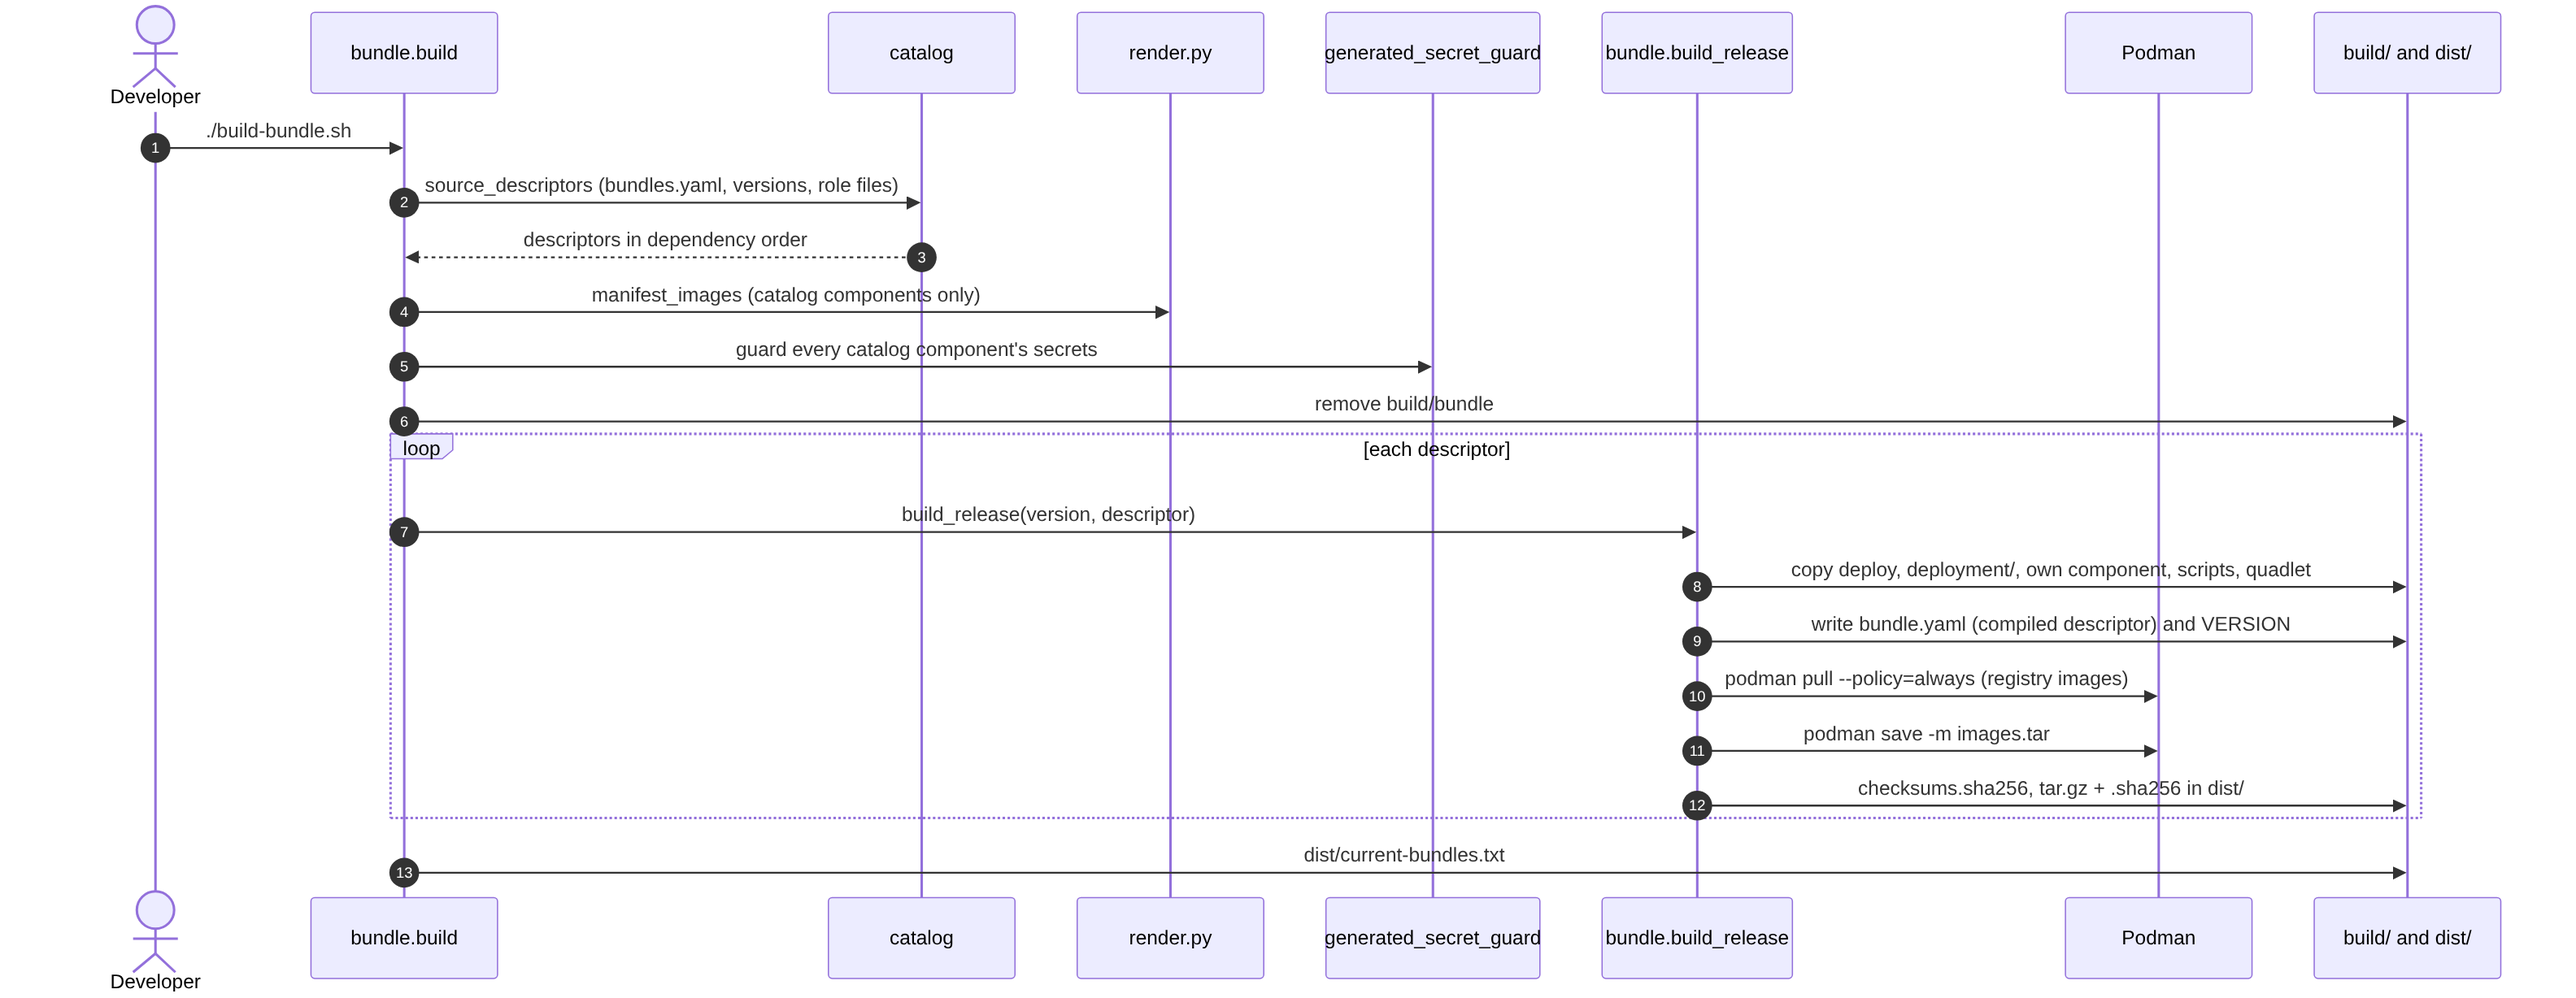
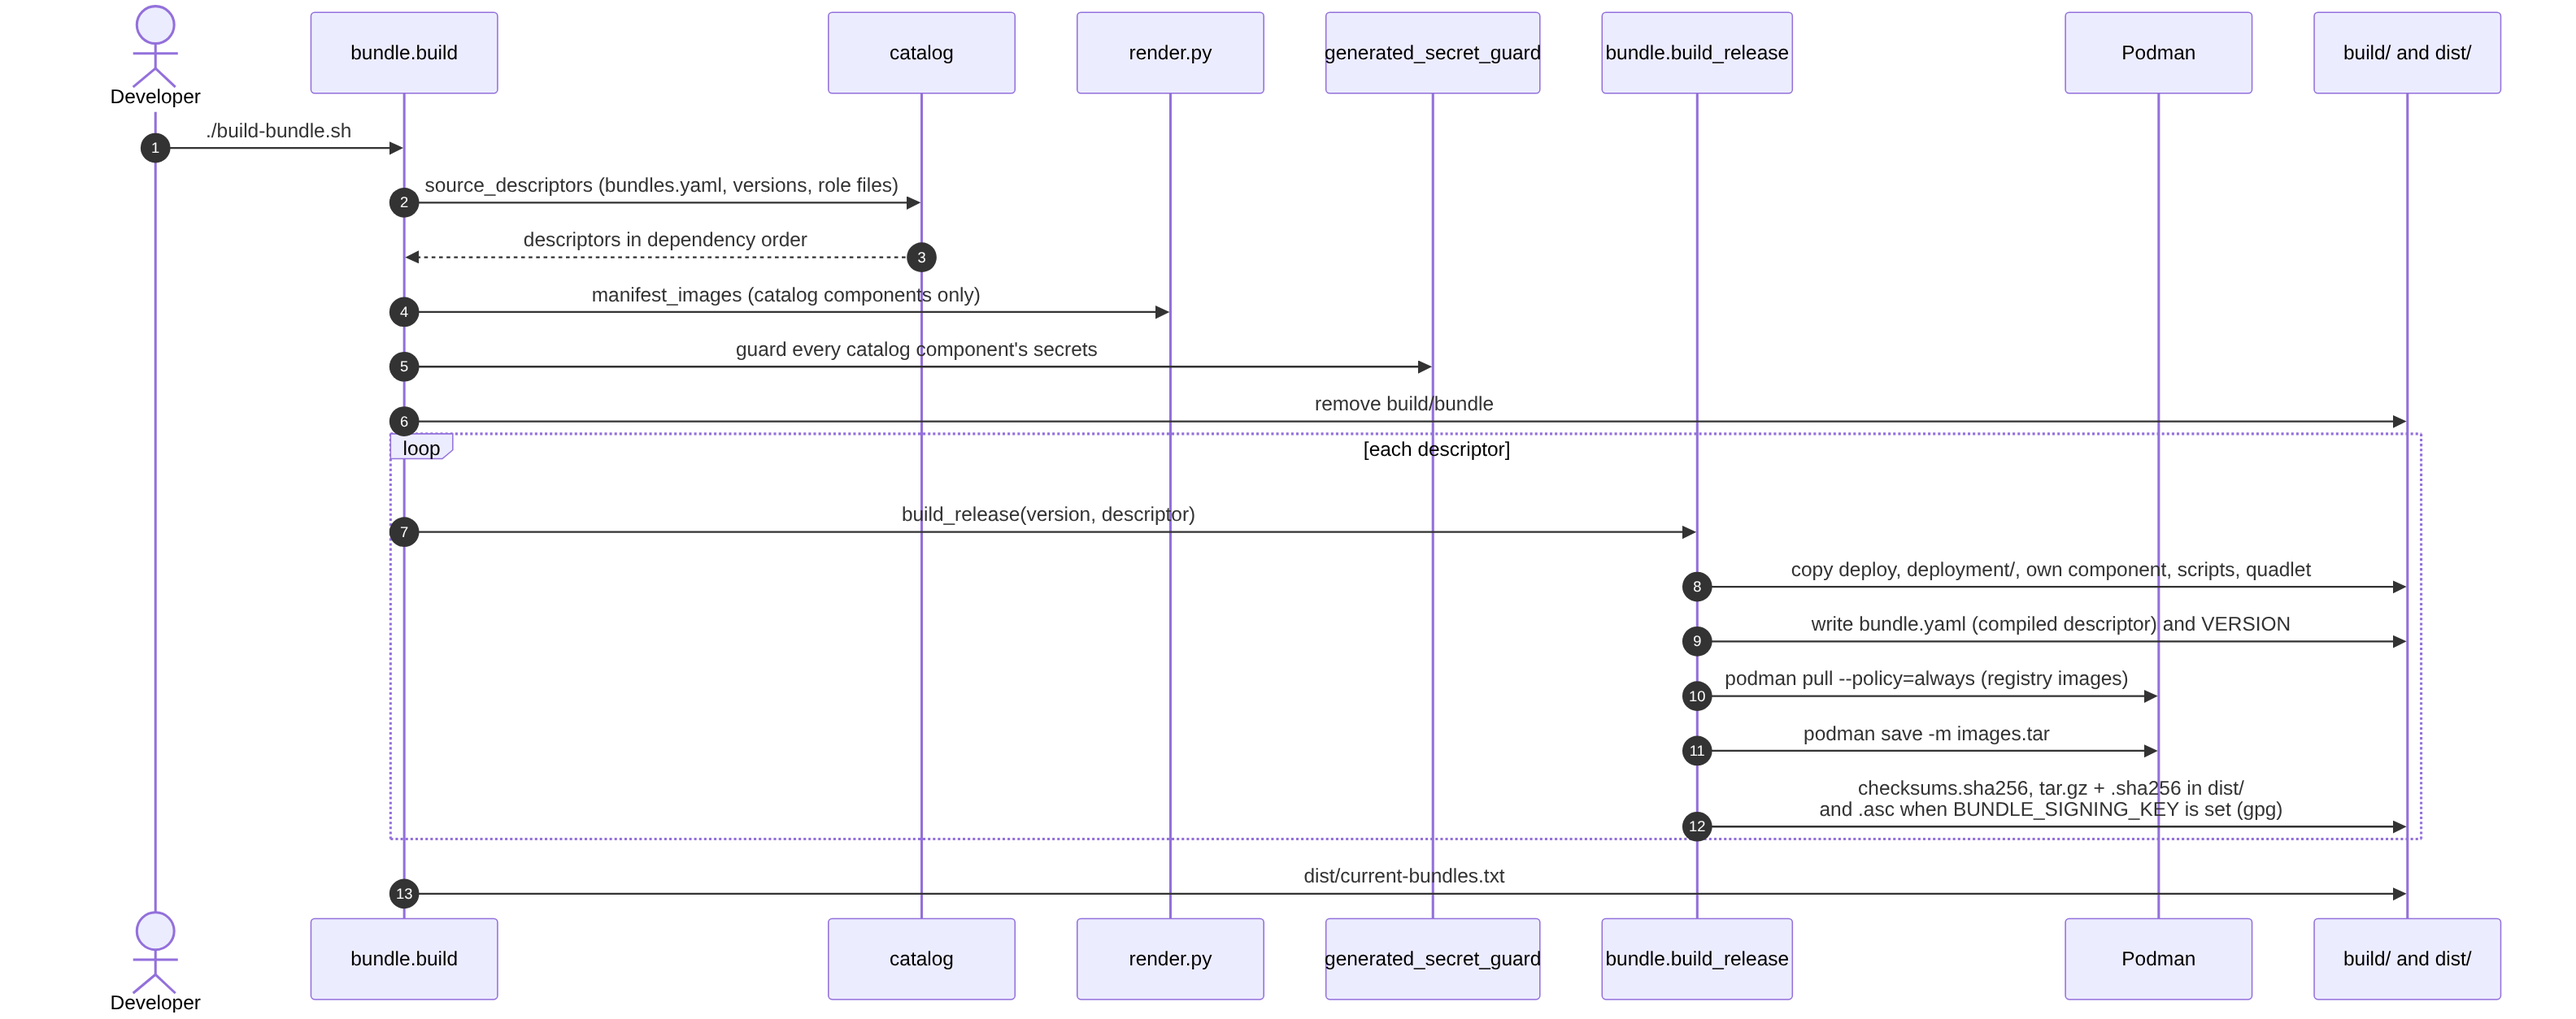
Sign bundles so the target can authenticate them (backlog 38)
With BUNDLE_SIGNING_KEY set, build-bundle.sh writes a detached OpenPGP
signature beside each archive; without it the build warns and writes
none. The README documents verifying with gpgv against the
organisation's separately delivered public key before the checksum and
unpacking. The harness signs with a per-run lab key on DEV and verifies
on PROD before every release is prepared.

Claude-Session: https://claude.ai/code/session_01RJUVHFM8cn1EjWoJTBsnk8

diff --git a/tests/test_signing.py b/tests/test_signing.py
@@ -1,0 +1,108 @@
+"""Signed bundles: a detached OpenPGP signature the target checks with gpgv."""
+
+import contextlib
+import io
+import os
+import shutil
+import subprocess
+import tempfile
+import unittest
+from pathlib import Path
+from unittest import mock
+
+import bundle
+
+
+@unittest.skipUnless(shutil.which("gpg") and shutil.which("gpgv"), "needs GnuPG")
+class SigningTests(unittest.TestCase):
+    def setUp(self):
+        # gpg-agent's socket path must stay short, so not under a deep TMPDIR.
+        directory = tempfile.TemporaryDirectory(dir="/tmp")
+        self.addCleanup(directory.cleanup)
+        self.root = Path(directory.name)
+        self.home = self.root / "gnupg"
+        self.home.mkdir(mode=0o700)
+        environment = mock.patch.dict(os.environ, {"GNUPGHOME": str(self.home)})
+        environment.start()
+        self.addCleanup(environment.stop)
+        self.addCleanup(
+            subprocess.run,
+            ["gpgconf", "--kill", "gpg-agent"],
+            check=False,
+            env=dict(os.environ, GNUPGHOME=str(self.home)),
+        )
+        self.gpg(
+            "--passphrase",
+            "",
+            "--quick-gen-key",
+            "Bundle test <bundle@invalid>",
+            "ed25519",
+            "sign",
+            "never",
+        )
+        listing = self.gpg("--list-secret-keys", "--with-colons").stdout
+        self.key = next(
+            line.split(":")[9]
+            for line in listing.splitlines()
+            if line.startswith("fpr")
+        )
+        self.keyring = self.root / "organisation.gpg"
+        self.keyring.write_bytes(self.gpg("--export", self.key, text=False).stdout)
+        self.archive = self.root / "myproduct-app1-1.0.0-offline.tar.gz"
+        self.archive.write_bytes(b"archive bytes")
+
+    def gpg(self, *arguments, text=True):
+        return subprocess.run(
+            ["gpg", "--batch", "--pinentry-mode", "loopback", *arguments],
+            check=True,
+            capture_output=True,
+            text=text,
+        )
+
+    def sign(self, key):
+        output = io.StringIO()
+        with (
+            mock.patch.dict(os.environ, {bundle.SIGNING_KEY: key}),
+            contextlib.redirect_stdout(output),
+        ):
+            signature = bundle.sign(self.archive)
+        return signature, output.getvalue()
+
+    def verify(self):
+        """The documented target check: gpgv against the organisation's key only."""
+        return subprocess.run(
+            [
+                "gpgv",
+                "--keyring",
+                str(self.keyring),
+                str(self.archive) + ".asc",
+                str(self.archive),
+            ],
+            capture_output=True,
+            check=False,
+        ).returncode
+
+    def test_signed_archive_verifies_and_a_changed_one_does_not(self):
+        signature, _ = self.sign(self.key)
+        self.assertEqual(signature, self.root / (self.archive.name + ".asc"))
+        self.assertEqual(self.verify(), 0)
+        self.archive.write_bytes(b"replaced archive bytes")
+        self.assertNotEqual(self.verify(), 0)
+
+    def test_unsigned_build_says_so_and_drops_an_old_signature(self):
+        self.sign(self.key)
+        signature, output = self.sign("")
+        self.assertIsNone(signature)
+        self.assertIn(
+            f"{self.archive.name} is unsigned; set BUNDLE_SIGNING_KEY", output
+        )
+        self.assertFalse((self.root / (self.archive.name + ".asc")).exists())
+
+    def test_unknown_key_fails_the_build(self):
+        with self.assertRaises(subprocess.CalledProcessError):
+            self.sign("0000000000000000000000000000000000000000")
+        self.assertFalse((self.root / (self.archive.name + ".asc")).exists())
+
+
+if __name__ == "__main__":
+    unittest.main()

diff --git a/acceptance/test_acceptance.py b/acceptance/test_acceptance.py
@@ -699,6 +699,10 @@ wait_trust /new/deployment/ /old/deployment/
         remote = Path(__file__).with_name("remote.sh").read_text()
         code = shell_code(remote, function="prepare_release") + self.trust_helper()
         stubs = r"""
+gpgv() {
+    [[ $* == "--keyring $base/bundle-signing.gpg myproduct-app1-0.4.3-offline.tar.gz.asc myproduct-app1-0.4.3-offline.tar.gz" ]] || return 9
+    echo signature-check >> "$base/calls"
+}
 sha256sum() { echo archive-check >> "$base/calls"; }
 as_product() {
     mkdir -p "$product/deployment"
@@ -786,7 +790,13 @@ prepare_release
                 calls = (base / "calls").read_text().splitlines()
                 if failure == "checksum":
                     self.assertEqual(
-                        calls, ["archive-check", "extract", "release-check"]
+                        calls,
+                        [
+                            "signature-check",
+                            "archive-check",
+                            "extract",
+                            "release-check",
+                        ],
                     )
                 elif failure in ("add", "add-one", "add-nine"):
                     self.assertEqual(
@@ -808,7 +818,14 @@ prepare_release
                     self.assertNotIn("ERROR", retry.stdout + retry.stderr)
                     self.assertEqual(
                         (base / "calls").read_text().splitlines(),
-                        ["archive-check", "release-check", "add", "update", "wait"],
+                        [
+                            "signature-check",
+                            "archive-check",
+                            "release-check",
+                            "add",
+                            "update",
+                            "wait",
+                        ],
                     )
 
     def trust_procedure(self, source, install_status=0, health_status=0):
@@ -850,6 +867,7 @@ sudo() {
 timeout() { shift; "$@"; }
 # Simulate a passing checksum without reading a real archive.
 sha256sum() { :; }
+gpgv() { :; }
 # Simulate the health check after install.
 healthy() { echo health >> "$calls"; return "$health_status"; }
 # ./deploy validate is checked separately; it changes no trust state.

diff --git a/bundle.py b/bundle.py
@@ -5,6 +5,7 @@ dist/myproduct-<version>-offline.tar.gz (common.STANDALONE_PRODUCT).
 """
 
 import hashlib
+import os
 import shutil
 import subprocess
 import sys
@@ -19,6 +20,9 @@ from deployment import render as rendering
 ROOT = Path(__file__).resolve().parent
 STAGE = ROOT / "build" / "bundle"
 DIST = ROOT / "dist"
+# OpenPGP key (ID or fingerprint) that signs each archive (<archive>.asc). The
+# target verifies it with gpgv before unpacking; see README, "Signed bundles".
+SIGNING_KEY = "BUNDLE_SIGNING_KEY"
 
 
 class BundleError(Exception):
@@ -311,9 +315,40 @@ def build_release(version, descriptor=None):
         f"{sha256(archive)}  {archive.name}\n",
         encoding="utf-8",
     )
+    sign(archive)
 
     print(f"[OK] {archive}")
     return archive
+
+
+def sign(archive):
+    """Write a detached OpenPGP signature beside the archive, or say it is unsigned.
+
+    The checksum only detects corruption; whoever can replace the archive can
+    replace it too. The signature, checked with the organisation's public key on
+    the target, shows who built it. An old signature is removed first, so a
+    rebuilt archive is never left beside a signature of an earlier one.
+    """
+    signature = archive.with_name(archive.name + ".asc")
+    if signature.exists():
+        signature.unlink()
+    key = os.environ.get(SIGNING_KEY, "").strip()
+    if not key:
+        print(f"[WARN] {archive.name} is unsigned; set {SIGNING_KEY} to sign bundles")
+        return None
+    run(
+        "gpg",
+        "--batch",
+        "--yes",
+        "--local-user",
+        key,
+        "--armor",
+        "--output",
+        signature,
+        "--detach-sign",
+        archive,
+    )
+    return signature
 
 
 def build(selected=()):

diff --git a/acceptance/acceptance.py b/acceptance/acceptance.py
@@ -377,25 +377,15 @@ class Run:
                 self.host("PROD") + ":" + base + "/generate-certificates.sh",
             ]
         )
-        for suffix in ("", ".sha256"):
-            local = self.folder / (archive + suffix)
-            self.command(
-                SCP
-                + [
-                    self.host("DEV")
-                    + ":"
-                    + base
-                    + "/"
-                    + tree
-                    + "/dist/"
-                    + archive
-                    + suffix,
-                    local,
-                ]
-            )
-            self.command(
-                SCP + [local, self.host("PROD") + ":" + base + "/" + archive + suffix]
-            )
+        # The archive, its checksum and its signature, then the lab build's
+        # public key: PROD trusts only that key (backlog 38).
+        for source, name in [
+            (base + "/" + tree + "/dist/" + archive + suffix, archive + suffix)
+            for suffix in ("", ".sha256", ".asc")
+        ] + [(base + "/bundle-signing.gpg", "bundle-signing.gpg")]:
+            local = self.folder / name
+            self.command(SCP + [self.host("DEV") + ":" + source, local])
+            self.command(SCP + [local, self.host("PROD") + ":" + base + "/" + name])
         with (self.folder / archive).open("rb") as stream:
             digest = hashlib.sha256()
             for chunk in iter(lambda: stream.read(1024 * 1024), b""):

diff --git a/README.md b/README.md
@@ -299,6 +299,29 @@ public product payloads. Declarations in common/component defaults and local/mat
 secrets from being copied into bundles, including through symlink aliases. Keep
 private files out of shipped directories and retain their declarations.
 
+### Signed bundles
+
+`.sha256` files detect a damaged archive, but whoever can replace an archive can
+replace its checksum too. With `BUNDLE_SIGNING_KEY` set to an OpenPGP key ID or
+fingerprint in the build machine's GnuPG keyring, `./build-bundle.sh` also
+writes a detached signature `<archive>.asc` for every archive (gpg must be able
+to use the key without a prompt, for example through gpg-agent). Without it the
+build prints `[WARN] ... is unsigned` and writes no `.asc`; a rebuilt archive
+never keeps an older signature.
+
+```sh
+export BUNDLE_SIGNING_KEY=<fingerprint>
+./build-bundle.sh
+gpg --export "$BUNDLE_SIGNING_KEY" > bundle-signing.gpg   # once; give it to operators
+```
+
+Deliver `bundle-signing.gpg` to the target separately from the bundles (for
+example on a different medium) and keep it there. The target checks each
+archive with `gpgv`, which trusts only that keyring, before the checksum and
+before unpacking anything; see the installation steps below. Do not verify with
+a script taken from the unverified archive. An archive without `.asc` is
+unsigned: install it only if your organisation allows unsigned builds.
+
 ## Proxy from YAML
 
 Platform uses `docker.io/library/nginx:1.28-alpine` directly, the same nginx
@@ -734,6 +757,8 @@ product_name=myproduct  # product: in bundles.yaml; also the service user
 bundle=platform
 version=0.4.11
 archive="$product_name-$bundle-$version-offline.tar.gz"
+# Signed bundles: the organisation's public key, delivered separately.
+gpgv --keyring ./bundle-signing.gpg "$archive.asc" "$archive"
 sha256sum -c "$archive.sha256"
 stage=$(mktemp -d "/tmp/$product_name-install.XXXXXXXX")
 tar xzf "$archive" -C "$stage"
@@ -845,9 +870,12 @@ bundle; never trust the whole release, private keys, crun rules or memfd rules.
 The CLI expands that directory into individual trusted files. Wait for every
 package file to appear in the database; on upgrade also wait until all files
 beneath the old package path disappear. Do not trust the shell wrapper, config,
-credentials or other release directories. Repeat checksum/trust for each release:
+credentials or other release directories. Repeat signature, checksum and trust
+for each release:
 
 ```sh
+gpgv --keyring ./bundle-signing.gpg "$archive.asc" "$archive"
+sha256sum -c "$archive.sha256"
 release="/var/lib/$product_name/releases/$product_name-$bundle-$version"
 as_product mkdir -p "/var/lib/$product_name/releases"
 as_product tar xzf - -C "/var/lib/$product_name/releases" < "$archive"

diff --git a/BACKLOG.md b/BACKLOG.md
@@ -3550,7 +3550,16 @@ is required.
 
 Review baseline: [docs/REVIEW_GUIDE.md](docs/REVIEW_GUIDE.md).
 
-Status: planned. Found by the best-practice review at `689156b`.
+Status: done on `main` (2026-10-19); lab run pending. With
+`BUNDLE_SIGNING_KEY` set, `bundle.sign` writes `<archive>.asc` (gpg detached,
+armored) after the checksum; without it the build warns and writes none, and a
+stale `.asc` is always removed. The README documents exporting the public key
+once, delivering it separately, and `gpgv --keyring ./bundle-signing.gpg`
+before the checksum and unpacking (never a script from the unverified
+archive). The harness signs every DEV build with a per-run lab key and verifies
+with `gpgv` on PROD in `prepare_release`; readiness requires gpg and gpgv.
+Tests: tests/test_signing.py (real gpg/gpgv: valid, tampered, unsigned, unknown
+key) and the harness prepare-release sequence.
 
 `bundle.py` writes `.sha256` files and `checksums.sha256` inside each release.
 They detect corruption, but anyone who can replace the archive can replace its

diff --git a/docs/REVIEW_GUIDE.md b/docs/REVIEW_GUIDE.md
@@ -53,7 +53,7 @@ this list; update entries with implementation/test evidence when resolved.
 | Demo apps connect to PostgreSQL as the image's superuser | Backlog 35 |
 | Demo containers run as container root without `securityContext` or resource limits | Backlog 36 |
 | Credentials are not encrypted at rest (sources, rendered YAML, Secret volumes, Identity keys) | Backlog 37 |
-| Bundles carry checksums but no signature | Backlog 38 |
+| ~~Bundles carry checksums but no signature~~ | Resolved by backlog 38: optional `.asc` (gpg), verified with `gpgv` on the target before unpacking |
 
 External image support does not by itself demonstrate arbitrary component support.
 The baseline review ran 66 existing database/config/bundle/Identity tests

diff --git a/acceptance/README.md b/acceptance/README.md
@@ -1,3 +1,14 @@
+# Signed bundles (backlog 38)
+
+Every DEV build after the source clone signs its bundles with a per-run lab key
+(`$base/gnupg`, ed25519, no passphrase); the 0.2.0 legacy build is signed
+afterwards. The runner copies each archive's `.asc` and the lab public key
+`bundle-signing.gpg` to PROD, and `prepare_release` runs `gpgv` against that
+keyring before the checksum and unpacking. Readiness now requires `gpg` and
+`gpgv` on both VMs (package gnupg2).
+
+---
+
 # Product name (backlog 27)
 
 `product:` in `bundles.yaml` now names the service user, units, network and

diff --git a/ARCHITECTURE.md b/ARCHITECTURE.md
@@ -228,7 +228,7 @@ sequenceDiagram
         BR->>FS: write bundle.yaml (compiled descriptor) and VERSION
         BR->>H: podman pull --policy=always (registry images)
         BR->>H: podman save -m images.tar
-        BR->>FS: checksums.sha256, tar.gz + .sha256 in dist/
+        BR->>FS: checksums.sha256, tar.gz + .sha256 in dist/<br/>and .asc when BUNDLE_SIGNING_KEY is set (gpg)
     end
     B->>FS: dist/current-bundles.txt
 ```
